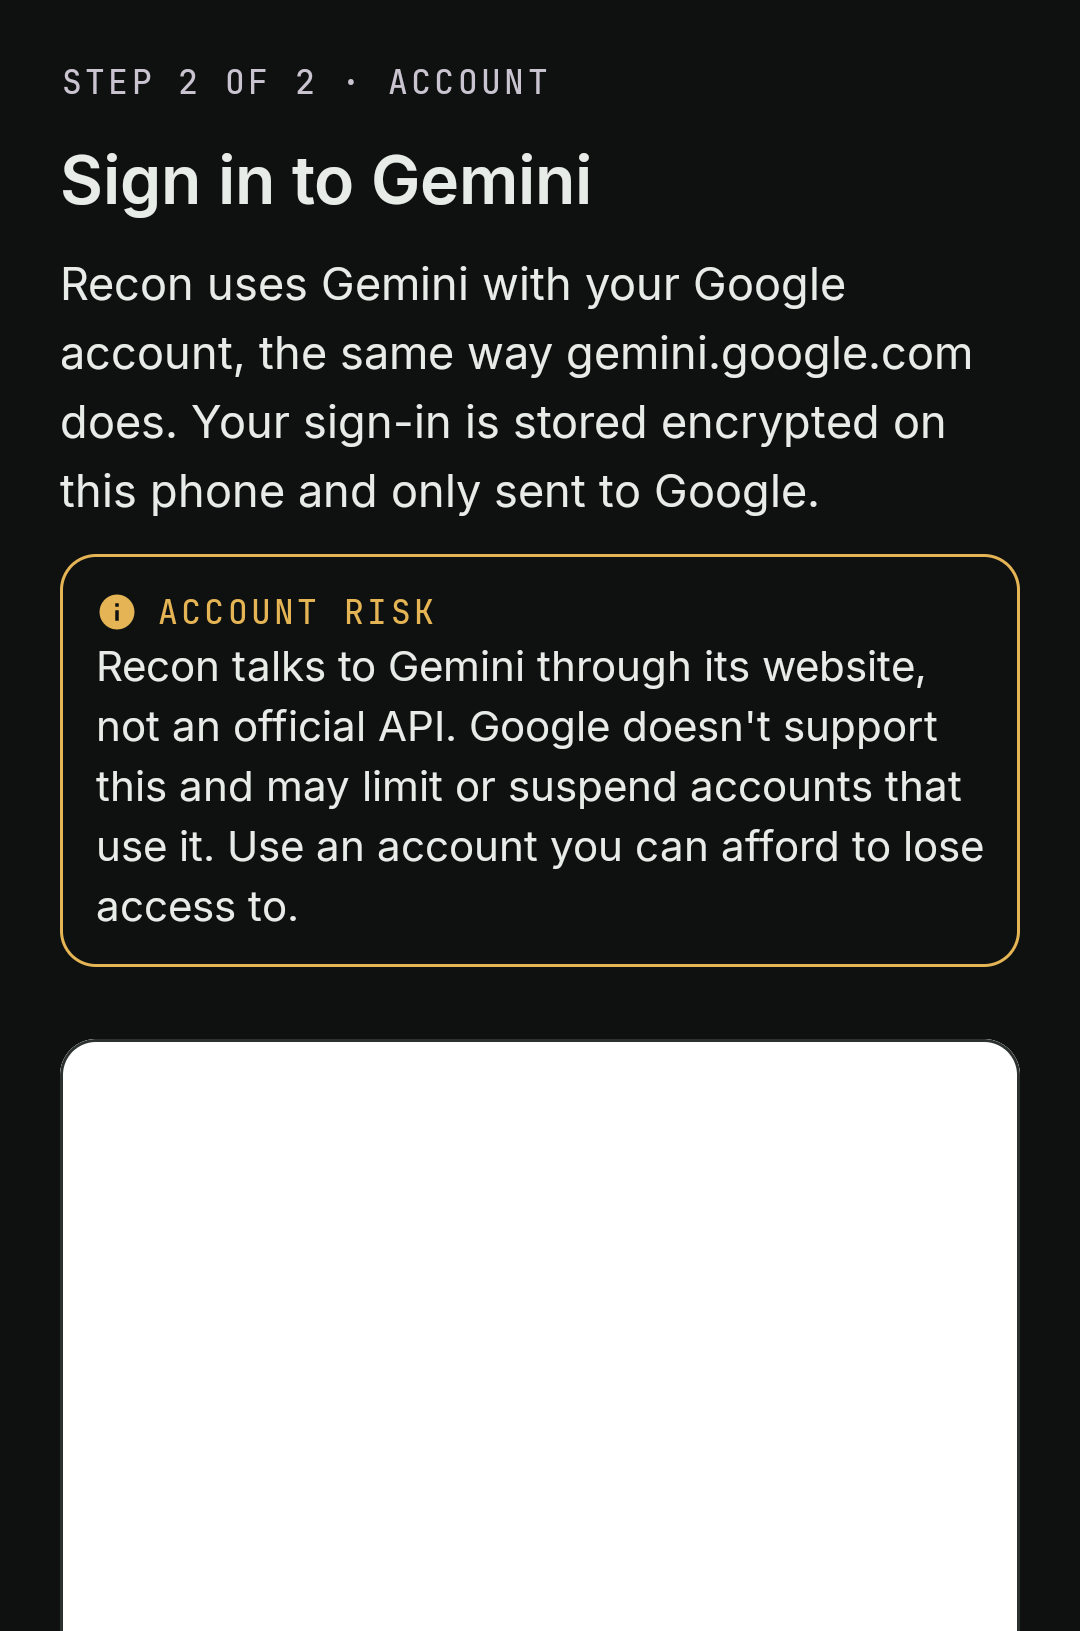
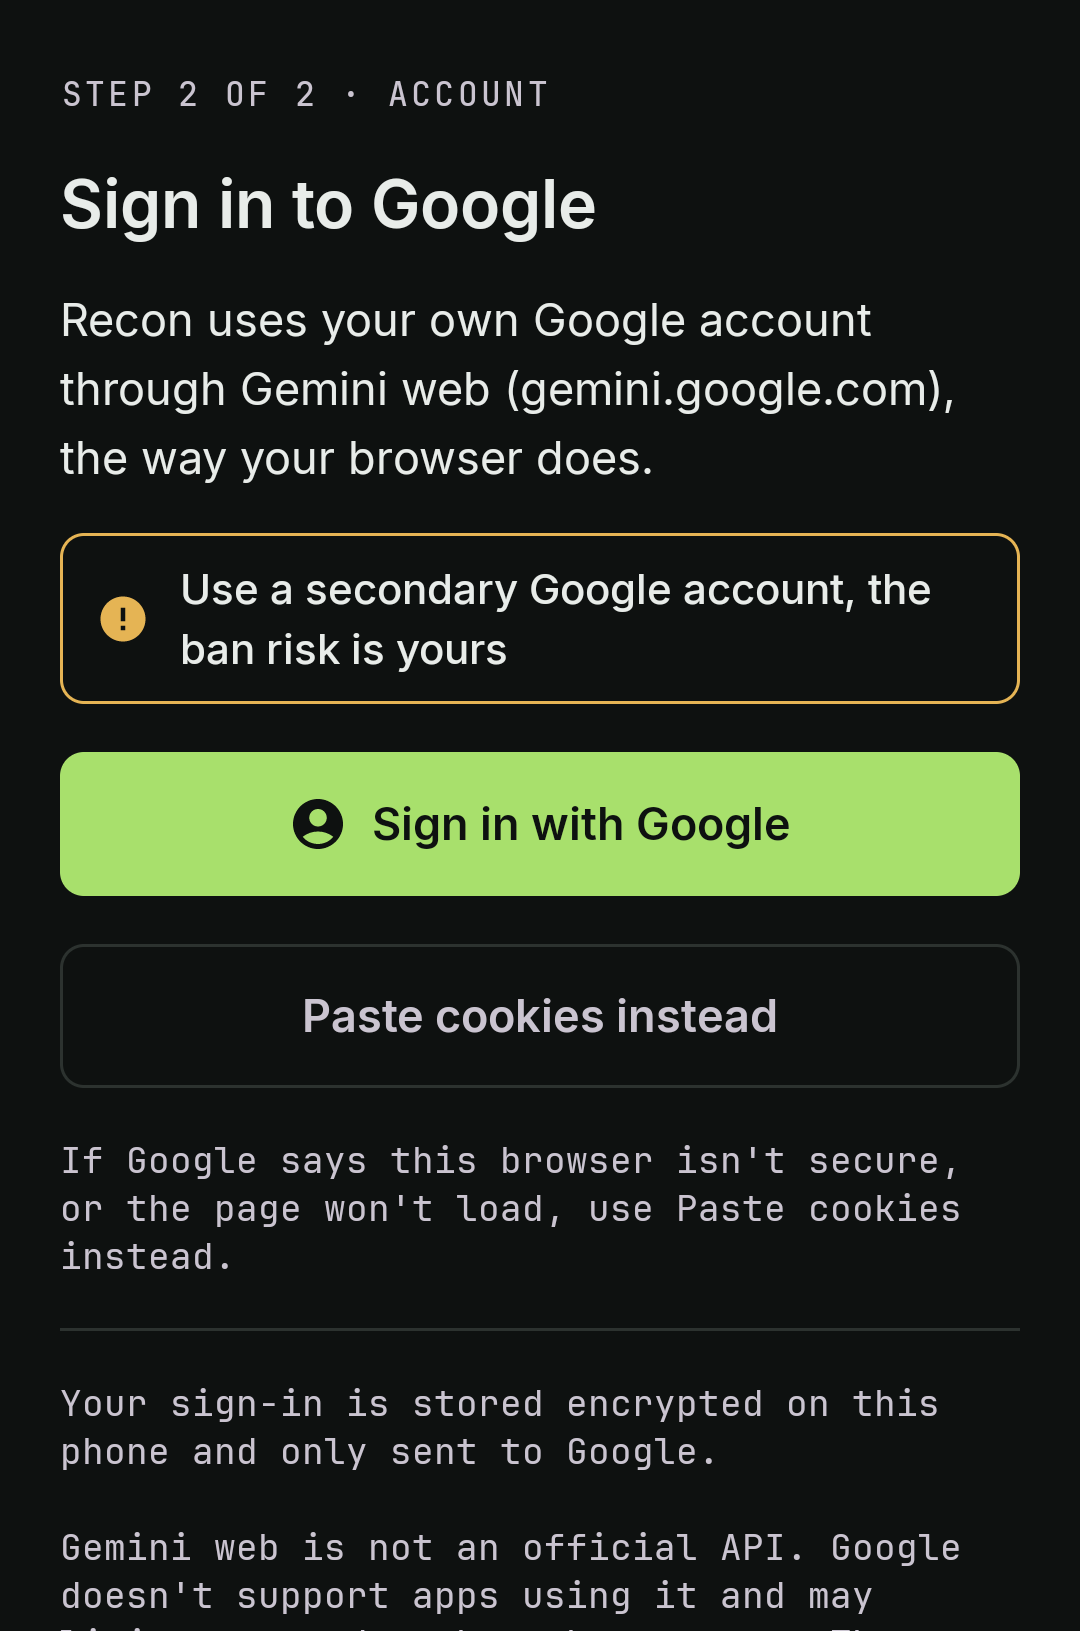
fix(signin): WebView step fills the space above the keyboard and shows Google's Next
On the live page the WebView stopped a navigation-bar height above the
keyboard (the Scaffold's inset counted again inside imePadding) and Google's
Next, which sits in the page flow, ended up below the shrunken viewport. The
step now consumes the navigation-bar inset before imePadding, and when the
keyboard opens it scrolls the focused field to the top of the page (a fixed
scroll script, nothing read). SignInKeyboardTest now uses an in-flow Next like
Google's and checks it is inside the WebView and above the keyboard; without
the scroll it fails (1796 vs 1523). New screenshot case sign_in_paste;
screenshots of the live flow in docs/design/sign-in.

diff --git a/app/src/main/kotlin/dev/wolzard/recon/feature/signin/SignInScreen.kt b/app/src/main/kotlin/dev/wolzard/recon/feature/signin/SignInScreen.kt
@@ -16,6 +16,10 @@ import androidx.compose.foundation.layout.fillMaxSize
 import androidx.compose.foundation.layout.fillMaxWidth
 import androidx.compose.foundation.layout.height
 import androidx.compose.foundation.layout.imePadding
+import androidx.compose.foundation.layout.consumeWindowInsets
+import androidx.compose.foundation.layout.ExperimentalLayoutApi
+import androidx.compose.foundation.layout.isImeVisible
+import androidx.compose.foundation.layout.navigationBars
 import androidx.compose.foundation.layout.padding
 import androidx.compose.foundation.layout.size
 import androidx.compose.foundation.rememberScrollState
@@ -38,6 +42,8 @@ import androidx.compose.material3.TextButton
 import androidx.compose.material3.TopAppBar
 import androidx.compose.material3.TopAppBarDefaults
 import androidx.compose.runtime.Composable
+import androidx.compose.runtime.LaunchedEffect
+import kotlinx.coroutines.delay
 import androidx.compose.runtime.getValue
 import androidx.compose.runtime.mutableStateOf
 import androidx.compose.runtime.remember
@@ -138,18 +144,32 @@ private fun SlimBar(title: String, onBack: () -> Unit, action: (@Composable () -
 }
 
 /**
- * Google's page fills everything under the bar. imePadding() shrinks the WebView above the keyboard, so the page
- * reflows and its Next button stays visible (SignInKeyboardTest).
+ * Google's page fills everything under the bar. imePadding() shrinks the WebView to the space above the keyboard
+ * (the Scaffold already padded for the navigation bar, so that inset is consumed first, or it would count twice).
+ * Google's Next button sits in the page flow under the field, not pinned, so when the keyboard opens the focused field
+ * is scrolled to the top of the WebView, which brings Next into view (SignInKeyboardTest, and the live page on recon30).
  */
+@OptIn(ExperimentalLayoutApi::class)
 @Composable
 private fun WebStep(state: SignInState, url: String, onIntent: (SignInIntent) -> Unit, onBack: () -> Unit, onPaste: () -> Unit) {
-    Column(Modifier.fillMaxSize().imePadding()) {
+    var web by remember { mutableStateOf<WebView?>(null) }
+    val imeVisible = WindowInsets.isImeVisible
+    LaunchedEffect(imeVisible, web) {
+        if (!imeVisible) return@LaunchedEffect
+        delay(350) // let the WebView finish shrinking with the keyboard animation
+        web?.evaluateJavascript(SCROLL_FOCUSED_TO_TOP, null)
+    }
+    Column(Modifier.fillMaxSize().consumeWindowInsets(WindowInsets.navigationBars).imePadding()) {
         SlimBar("Sign in to Google", onBack) { TextButton(onClick = onPaste) { Text("Paste cookies") } }
         HorizontalDivider(color = MaterialTheme.colorScheme.outlineVariant)
         if (state.checking || state.error != null) Status(state, Modifier.padding(horizontal = 16.dp, vertical = 8.dp))
-        SignInWebView(Modifier.fillMaxWidth().weight(1f).testTag("sign_in_webview"), url) { onIntent(SignInIntent.CookiesReceived(it)) }
+        SignInWebView(Modifier.fillMaxWidth().weight(1f).testTag("sign_in_webview"), url, onCreated = { web = it }) { onIntent(SignInIntent.CookiesReceived(it)) }
     }
 }
+
+// A fixed scroll, nothing read or written: the focused field moves to the top so what follows it (Next) is visible.
+private const val SCROLL_FOCUSED_TO_TOP =
+    "(function(){var e=document.activeElement;if(e&&e!==document.body){var r=e.getBoundingClientRect();window.scrollBy(0,r.top-16);}})()"
 
 @Composable
 private fun PasteStep(state: SignInState, onIntent: (SignInIntent) -> Unit, onBack: () -> Unit) {
@@ -179,9 +199,10 @@ private fun PasteStep(state: SignInState, onIntent: (SignInIntent) -> Unit, onBa
 }
 
 @Composable
-private fun SignInWebView(modifier: Modifier, url: String, onCookies: (String) -> Unit) {
+private fun SignInWebView(modifier: Modifier, url: String, onCreated: (WebView) -> Unit = {}, onCookies: (String) -> Unit) {
     AndroidView(modifier = modifier, factory = { ctx ->
         WebView(ctx).apply {
+            onCreated(this)
             SignInWeb.lockDown(this)
             webViewClient = object : SignInWeb.Client(ctx) {
                 override fun onPageFinished(view: WebView, url: String) {

diff --git a/app/src/androidTest/kotlin/dev/wolzard/recon/ui/SignInKeyboardTest.kt b/app/src/androidTest/kotlin/dev/wolzard/recon/ui/SignInKeyboardTest.kt
@@ -25,8 +25,9 @@ import java.util.concurrent.CountDownLatch
 import java.util.concurrent.TimeUnit
 
 /**
- * D27: with the keyboard open on the WebView step, a Next button pinned to the bottom of the page (as on Google's
- * mobile sign-in) is still above the keyboard. A local page stands in for Google's, so the test needs no network.
+ * D27: with the keyboard open on the WebView step, the Next button under the field (in the page flow, as on Google's
+ * sign-in page) is visible: inside the WebView and above the keyboard. A local page stands in for Google's, so the test
+ * needs no network.
  */
 @RunWith(AndroidJUnit4::class)
 class SignInKeyboardTest {
@@ -35,9 +36,12 @@ class SignInKeyboardTest {
 
     private val page = "data:text/html," + android.net.Uri.encode(
         """<html><head><meta name="viewport" content="width=device-width,initial-scale=1"></head>
-        <body style="margin:0;height:100vh">
-        <input id="email" style="position:absolute;top:24px;left:16px;width:80%;height:48px;font-size:18px">
-        <button id="next" style="position:fixed;bottom:16px;right:16px;height:40px">Next</button>
+        <body style="margin:0;min-height:100vh;font-size:18px">
+        <div style="height:280px">Sign in</div>
+        <input id="email" style="margin:0 16px;width:80%;height:56px;font-size:18px">
+        <div style="height:220px">Forgot email? Guest mode text.</div>
+        <button id="next" style="margin:0 16px;height:48px">Next</button>
+        <div style="height:120px">Help Privacy Terms</div>
         </body></html>""",
     )
 
@@ -87,7 +91,7 @@ class SignInKeyboardTest {
         val loc = IntArray(2)
         instrumentation.runOnMainSync { web.getLocationOnScreen(loc) }
         val d = web.resources.displayMetrics.density
-        val x = loc[0] + 40 * d; val y = loc[1] + 48 * d
+        val x = loc[0] + 60 * d; val y = loc[1] + 308 * d
         val t = SystemClock.uptimeMillis()
         instrumentation.sendPointerSync(MotionEvent.obtain(t, t, MotionEvent.ACTION_DOWN, x, y, 0))
         instrumentation.sendPointerSync(MotionEvent.obtain(t, t + 50, MotionEvent.ACTION_UP, x, y, 0))
@@ -96,7 +100,9 @@ class SignInKeyboardTest {
         // The WebView shrinks with the keyboard's show animation; give the page up to 3 s to reflow.
         var bottom = Float.MAX_VALUE
         val top = imeTop()
-        runCatching { compose.waitUntil(3_000) { bottom = nextBottom(web) ?: Float.MAX_VALUE; bottom <= top } }
+        fun webBottom(): Int { val l = IntArray(2); var h = 0; instrumentation.runOnMainSync { web.getLocationInWindow(l); h = web.height }; return l[1] + h }
+        runCatching { compose.waitUntil(3_000) { bottom = nextBottom(web) ?: Float.MAX_VALUE; bottom <= minOf(top, webBottom()) } }
         assertTrue("Next bottom $bottom must be above the keyboard top $top", bottom <= top)
+        assertTrue("Next bottom $bottom must be inside the WebView (bottom ${webBottom()})", bottom <= webBottom())
     }
 }

diff --git a/app/src/androidTest/kotlin/dev/wolzard/recon/ui/ScreenshotsTest.kt b/app/src/androidTest/kotlin/dev/wolzard/recon/ui/ScreenshotsTest.kt
@@ -1,5 +1,6 @@
 package dev.wolzard.recon.ui
 
+import androidx.compose.ui.test.performClick
 import android.graphics.Bitmap
 import androidx.compose.runtime.Composable
 import androidx.compose.ui.graphics.asAndroidBitmap
@@ -55,10 +56,11 @@ class ScreenshotsTest {
     private val suffix = InstrumentationRegistry.getArguments().getString("suffix", "")
     private val dir = File(InstrumentationRegistry.getInstrumentation().targetContext.getExternalFilesDir(null), "screenshots").apply { mkdirs() }
 
-    private fun shot(name: String, scrollTo: String? = null, scrollToTag: String? = null, content: @Composable () -> Unit) {
+    private fun shot(name: String, scrollTo: String? = null, scrollToTag: String? = null, clickText: String? = null, content: @Composable () -> Unit) {
         // The real app gets its background from the Scaffold in ReconNavHost; the harness needs its own.
         compose.setContent { ReconTheme { androidx.compose.material3.Surface(color = androidx.compose.material3.MaterialTheme.colorScheme.background) { content() } } }
         compose.waitForIdle()
+        clickText?.let { compose.onNodeWithText(it).performClick(); compose.waitForIdle() }
         scrollTo?.let { compose.onNodeWithText(it).performScrollTo() }
         scrollToTag?.let { compose.onNodeWithTag(it).performScrollTo() }
         val bmp = compose.onRoot().captureToImage().asAndroidBitmap()
@@ -166,6 +168,12 @@ class ScreenshotsTest {
 
     @Test fun signIn() {
         shot("sign_in") { SignInScreen(SignInState()) {} }
+    }
+
+    @Test fun signInPaste() { // D27: the paste step, reached from "Paste cookies instead"
+        shot("sign_in_paste", clickText = "Paste cookies instead") {
+            SignInScreen(SignInState(error = dev.wolzard.recon.core.copy.SetupCopy.NO_SESSION_COOKIE)) {}
+        }
     }
 
     @Test fun settings() {
